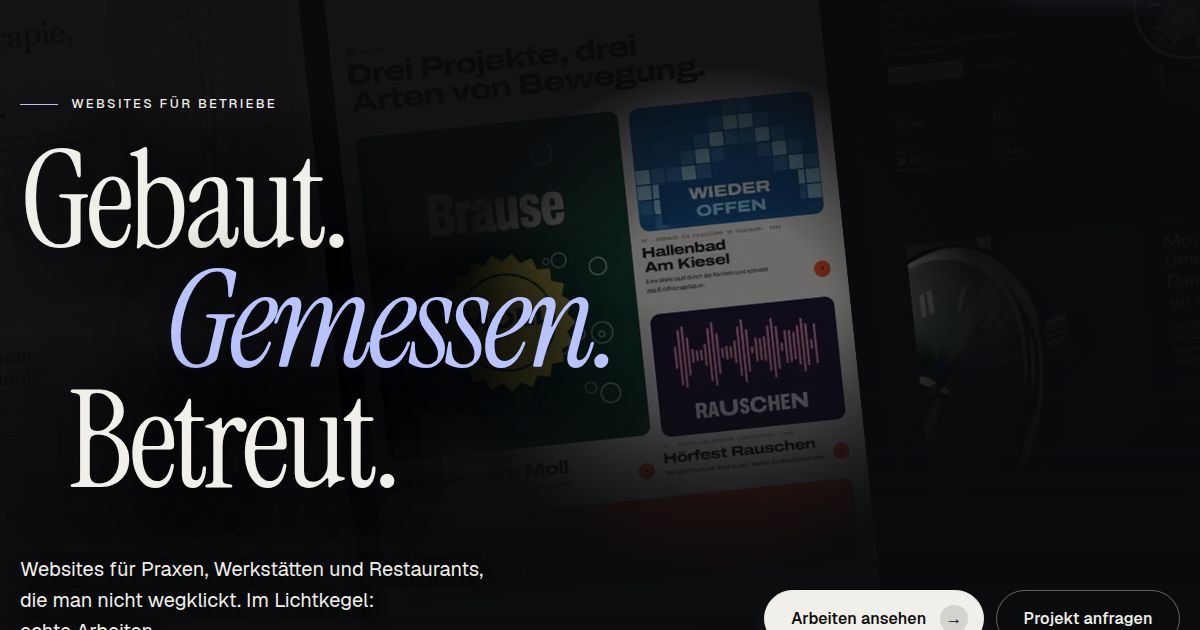
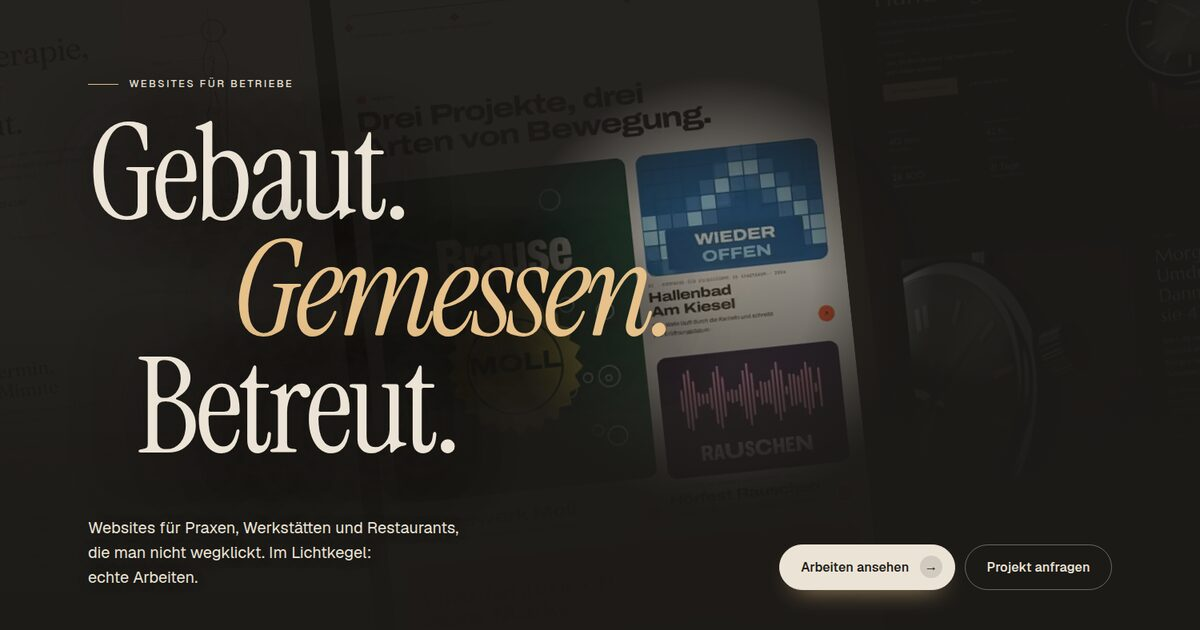
elias-studio: Graphit als Vorgabe (Elias' Wahl), Mitternacht und Kalk als Vorschau-Schemata, neues og-Bild
Claude-Session: https://claude.ai/code/session_01UZhQVfsbL7x9nmMB2BBxjN

diff --git a/kunden/elias-studio/public/css/marke.css b/kunden/elias-studio/public/css/marke.css
@@ -1,15 +1,15 @@
 /* =====================================================================
    MARKE – [Studioname], Portfolio von Elias. Die ganze Marke steht nur hier.
    stil.css und bausteine.css lesen nur diese Variablen (Test: tests/bausteine.test.mjs).
-   Farbwelt „Mitternacht“ (2026-10-05, Runde 3): Elias fand das fast reine Schwarz mit hellem Text zu hart.
-   Darum: tiefes Tintenblau statt Schwarz, Flächen in drei Höhen (grund → flaeche → flaeche-hoch), weiches Elfenbein als
-   Schrift statt Weiß, EIN Lichtakzent (Periwinkle) für Links, Fokus und das eine Wort, ein ruhiges Grün nur für Zustände
+   Farbwelt „Graphit“ (2026-10-06, Runde 3): Elias fand das fast reine Schwarz mit hellem Text zu hart und wählte aus drei Entwürfen B.
+   Darum: warmes Dunkelgrau statt Schwarz, Flächen in drei Höhen (grund → flaeche → flaeche-hoch), weiches Elfenbein als
+   Schrift statt Weiß, EIN Lichtakzent (Messing) für Links, Fokus und das eine Wort, ein ruhiges Grün nur für Zustände
    („erledigt“, Häkchen in den kleinen Schaubildern), tiefes Blau nur für Lichtflächen und Verläufe.
    Drei Schemata zum Vergleich (Meisterstandard P4, gleiche Rollen, kein Schalter auf der Seite):
-     <html>                         A „Mitternacht“ (Vorgabe) – kühles Tintenblau, Periwinkle
-     <html data-schema="graphit">   B „Graphit“  – warmes Dunkelgrau, Messinglicht
+     <html>                           B „Graphit“ (Vorgabe, Elias 06.10.) – warmes Dunkelgrau, Messinglicht
+     <html data-schema="mitternacht"> A „Mitternacht“ – kühles Tintenblau, Periwinkle
      <html data-schema="kalk">      C „Kalk“     – heller Kalkputz, Tintenblau als Akzent
-   Bauen mit Schema: SCHEMA=graphit node bauen.mjs (nur für Vorschauen, nie so ausliefern).
+   Bauen mit Schema: SCHEMA=mitternacht node bauen.mjs (nur für Vorschauen, nie so ausliefern).
    Kontrast (WCAG 2.x, gemessen mit scratch kontrast.mjs; Fließtext ≥ 4,5 : 1):
      A  text/grund 13,4 · text/flaeche 12,3 · text/hoch 11,0 · leise/grund 7,5 · leise/flaeche 6,8 · leise/hoch 6,1
         akzent/grund 10,0 · akzent/hoch 8,2 · gut/hoch 9,0 · auf-akzent/akzent 10,0 · Knopf grund/text 13,4 · fehler/flaeche 8,2
@@ -59,27 +59,27 @@
   size-adjust: 104.9%; ascent-override: 95.8%; descent-override: 28.1%; line-gap-override: 0%;
 }
 
-/* ---------- A „Mitternacht“ (Vorgabe) ---------- */
+/* ---------- B „Graphit“ (Vorgabe, von Elias am 06.10. gewählt) ---------- */
 :root {
   /* Farben: 6 Rollen + Höhe, Zustand, Schrift auf dem Akzent */
-  --farbe-grund: #131826;        /* Tintenblau statt Schwarz */
-  --farbe-flaeche: #1a2032;      /* Bänder, Felder, Blatt */
-  --farbe-flaeche-hoch: #212842; /* Karten, gehoben */
-  --farbe-text: #e4e0d6;         /* Elfenbein, gedämpft; auch Hauptknopf */
-  --farbe-leise: #a2a8ba;        /* Nebentext */
-  --farbe-linie: #2b3249;        /* Haarlinien */
-  --farbe-akzent: #b3bfff;       /* Lichtakzent: Links, Fokus, Überzeilen, ein Wort */
-  --farbe-auf-akzent: #131826;
-  --farbe-gut: #9bd9b4;          /* Zustand „erledigt“ – nur Häkchen und Marken in Schaubildern */
-  --farbe-fehler: #f4a58f;       /* Fehlermeldungen im Formular */
-  --farbe-licht: #c9d1ff;        /* Schein des Lichtkegels im Hero (nur als Hauch) */
-  --blau-tief: #3446c4;          /* Tiefenfarbe: Flächen und Verläufe, nie als Textfarbe */
+  --farbe-grund: #1c1a17;        /* warmes Dunkelgrau statt Schwarz */
+  --farbe-flaeche: #24211d;      /* Bänder, Felder, Blatt */
+  --farbe-flaeche-hoch: #2c2924; /* Karten, gehoben */
+  --farbe-text: #ebe4d6;         /* warmes Elfenbein, gedämpft; auch Hauptknopf */
+  --farbe-leise: #afa695;        /* Nebentext */
+  --farbe-linie: #3a352e;        /* Haarlinien */
+  --farbe-akzent: #e6c18a;       /* Lichtakzent: Links, Fokus, Überzeilen, ein Wort */
+  --farbe-auf-akzent: #1c1a17;
+  --farbe-gut: #a8d4a0;          /* Zustand „erledigt“ – nur Häkchen und Marken in Schaubildern */
+  --farbe-fehler: #f2a48c;       /* Fehlermeldungen im Formular */
+  --farbe-licht: #ffd9a0;        /* Schein des Lichtkegels im Hero (nur als Hauch) */
+  --blau-tief: #6b4423;          /* Tiefenfarbe: Flächen und Verläufe, nie als Textfarbe */
 
   /* Handwerk der Karten: Haarring 0,5 px + weicher, tiefer Schatten; Glanzkante oben */
-  --farbe-ring: rgba(179, 191, 255, .16);
-  --farbe-glanz: rgba(228, 224, 214, .07);
-  --schatten-karte: 0 0 0 .5px var(--farbe-ring), 0 1px 2px rgba(5, 8, 20, .35), 0 28px 48px -28px rgba(5, 8, 20, .85);
-  --schatten-hoch: 0 0 0 .5px rgba(179, 191, 255, .3), 0 2px 6px rgba(5, 8, 20, .35), 0 34px 60px -26px rgba(5, 8, 20, .95);
+  --farbe-ring: rgba(230, 193, 138, .16);
+  --farbe-glanz: rgba(235, 228, 214, .07);
+  --schatten-karte: 0 0 0 .5px var(--farbe-ring), 0 1px 2px rgba(10, 8, 5, .4), 0 28px 48px -28px rgba(10, 8, 5, .9);
+  --schatten-hoch: 0 0 0 .5px rgba(230, 193, 138, .3), 0 2px 6px rgba(10, 8, 5, .4), 0 34px 60px -26px rgba(10, 8, 5, .95);
   --held-schleier: 50%;          /* Deckkraft des Schleiers über dem Mosaik */
 
   /* Farben der fünf Arbeiten (aus deren marke.css) – nur für Reiter-Linien und Punkte */
@@ -90,8 +90,8 @@
   --werk-klarwerk: #5fba46;
 
   /* Wegweiser-Zeichen: helle Scheibe mit dunklem Symbol */
-  --zeichen-grund: #e4e0d6;
-  --zeichen-strich: #131826;
+  --zeichen-grund: #ebe4d6;
+  --zeichen-strich: #1c1a17;
 
   /* Schriften (Code: nur Systemschrift, kein Download) */
   --schrift-display: "Instrument Serif", "Instrument Serif Ersatz", "Times New Roman", serif;
@@ -119,26 +119,26 @@
   color-scheme: dark;
 }
 
-/* ---------- B „Graphit“: warmes Dunkelgrau, Messinglicht wie eine Werkbanklampe ---------- */
-:root[data-schema="graphit"] {
-  --farbe-grund: #1c1a17;
-  --farbe-flaeche: #24211d;
-  --farbe-flaeche-hoch: #2c2924;
-  --farbe-text: #ebe4d6;
-  --farbe-leise: #afa695;
-  --farbe-linie: #3a352e;
-  --farbe-akzent: #e6c18a;
-  --farbe-auf-akzent: #1c1a17;
-  --farbe-gut: #a8d4a0;
-  --farbe-fehler: #f2a48c;
-  --farbe-licht: #ffd9a0;
-  --blau-tief: #6b4423;
-  --farbe-ring: rgba(230, 193, 138, .16);
-  --farbe-glanz: rgba(235, 228, 214, .07);
-  --schatten-karte: 0 0 0 .5px var(--farbe-ring), 0 1px 2px rgba(10, 8, 5, .4), 0 28px 48px -28px rgba(10, 8, 5, .9);
-  --schatten-hoch: 0 0 0 .5px rgba(230, 193, 138, .3), 0 2px 6px rgba(10, 8, 5, .4), 0 34px 60px -26px rgba(10, 8, 5, .95);
-  --zeichen-grund: #ebe4d6;
-  --zeichen-strich: #1c1a17;
+/* ---------- A „Mitternacht“: kühles Tintenblau, Periwinkle (Alternative) ---------- */
+:root[data-schema="mitternacht"] {
+  --farbe-grund: #131826;
+  --farbe-flaeche: #1a2032;
+  --farbe-flaeche-hoch: #212842;
+  --farbe-text: #e4e0d6;
+  --farbe-leise: #a2a8ba;
+  --farbe-linie: #2b3249;
+  --farbe-akzent: #b3bfff;
+  --farbe-auf-akzent: #131826;
+  --farbe-gut: #9bd9b4;
+  --farbe-fehler: #f4a58f;
+  --farbe-licht: #c9d1ff;
+  --blau-tief: #3446c4;
+  --farbe-ring: rgba(179, 191, 255, .16);
+  --farbe-glanz: rgba(228, 224, 214, .07);
+  --schatten-karte: 0 0 0 .5px var(--farbe-ring), 0 1px 2px rgba(5, 8, 20, .35), 0 28px 48px -28px rgba(5, 8, 20, .85);
+  --schatten-hoch: 0 0 0 .5px rgba(179, 191, 255, .3), 0 2px 6px rgba(5, 8, 20, .35), 0 34px 60px -26px rgba(5, 8, 20, .95);
+  --zeichen-grund: #e4e0d6;
+  --zeichen-strich: #131826;
 }
 
 /* ---------- C „Kalk“: heller Kalkputz, Tintenblau – die Seite bei Tageslicht ---------- */

diff --git a/kunden/elias-studio/public/404.html b/kunden/elias-studio/public/404.html
@@ -17,7 +17,7 @@
 <meta property="og:image:height" content="630">
 <meta property="og:image:alt" content="„Gebaut. Gemessen. Betreut.“ in großer Schrift auf dunklem Grund, ein Lichtkegel macht Ausschnitte der Arbeiten sichtbar">
 <meta name="twitter:card" content="summary_large_image">
-<meta name="theme-color" content="#131826">
+<meta name="theme-color" content="#1c1a17">
 <link rel="icon" href="/favicon.svg" type="image/svg+xml">
 <link rel="preload" href="/fonts/instrument-serif.woff2" as="font" type="font/woff2" crossorigin>
 <link rel="preload" href="/fonts/instrument-serif-kursiv.woff2" as="font" type="font/woff2" crossorigin>

diff --git a/kunden/elias-studio/public/datenschutz.html b/kunden/elias-studio/public/datenschutz.html
@@ -17,7 +17,7 @@
 <meta property="og:image:height" content="630">
 <meta property="og:image:alt" content="„Gebaut. Gemessen. Betreut.“ in großer Schrift auf dunklem Grund, ein Lichtkegel macht Ausschnitte der Arbeiten sichtbar">
 <meta name="twitter:card" content="summary_large_image">
-<meta name="theme-color" content="#131826">
+<meta name="theme-color" content="#1c1a17">
 <link rel="icon" href="/favicon.svg" type="image/svg+xml">
 <link rel="preload" href="/fonts/instrument-serif.woff2" as="font" type="font/woff2" crossorigin>
 <link rel="preload" href="/fonts/instrument-serif-kursiv.woff2" as="font" type="font/woff2" crossorigin>

diff --git a/kunden/elias-studio/public/impressum.html b/kunden/elias-studio/public/impressum.html
@@ -17,7 +17,7 @@
 <meta property="og:image:height" content="630">
 <meta property="og:image:alt" content="„Gebaut. Gemessen. Betreut.“ in großer Schrift auf dunklem Grund, ein Lichtkegel macht Ausschnitte der Arbeiten sichtbar">
 <meta name="twitter:card" content="summary_large_image">
-<meta name="theme-color" content="#131826">
+<meta name="theme-color" content="#1c1a17">
 <link rel="icon" href="/favicon.svg" type="image/svg+xml">
 <link rel="preload" href="/fonts/instrument-serif.woff2" as="font" type="font/woff2" crossorigin>
 <link rel="preload" href="/fonts/instrument-serif-kursiv.woff2" as="font" type="font/woff2" crossorigin>

diff --git a/kunden/elias-studio/public/index.html b/kunden/elias-studio/public/index.html
@@ -16,7 +16,7 @@
 <meta property="og:image:height" content="630">
 <meta property="og:image:alt" content="„Gebaut. Gemessen. Betreut.“ in großer Schrift auf dunklem Grund, ein Lichtkegel macht Ausschnitte der Arbeiten sichtbar">
 <meta name="twitter:card" content="summary_large_image">
-<meta name="theme-color" content="#131826">
+<meta name="theme-color" content="#1c1a17">
 <link rel="icon" href="/favicon.svg" type="image/svg+xml">
 <link rel="preload" href="/fonts/instrument-serif.woff2" as="font" type="font/woff2" crossorigin>
 <link rel="preload" href="/fonts/instrument-serif-kursiv.woff2" as="font" type="font/woff2" crossorigin>

diff --git a/kunden/elias-studio/public/nachricht-gesendet.html b/kunden/elias-studio/public/nachricht-gesendet.html
@@ -17,7 +17,7 @@
 <meta property="og:image:height" content="630">
 <meta property="og:image:alt" content="„Gebaut. Gemessen. Betreut.“ in großer Schrift auf dunklem Grund, ein Lichtkegel macht Ausschnitte der Arbeiten sichtbar">
 <meta name="twitter:card" content="summary_large_image">
-<meta name="theme-color" content="#131826">
+<meta name="theme-color" content="#1c1a17">
 <link rel="icon" href="/favicon.svg" type="image/svg+xml">
 <link rel="preload" href="/fonts/instrument-serif.woff2" as="font" type="font/woff2" crossorigin>
 <link rel="preload" href="/fonts/instrument-serif-kursiv.woff2" as="font" type="font/woff2" crossorigin>
